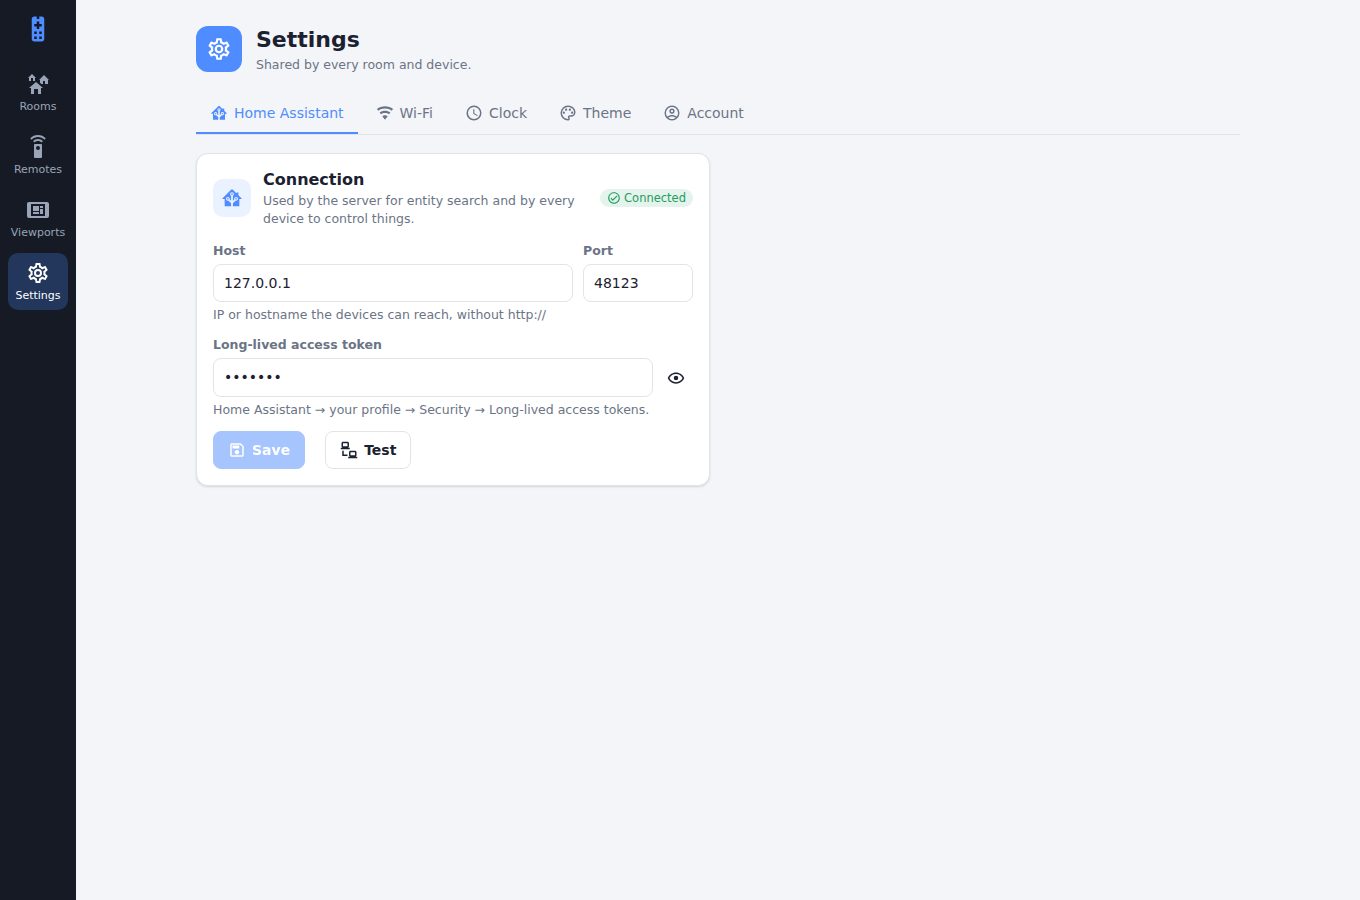
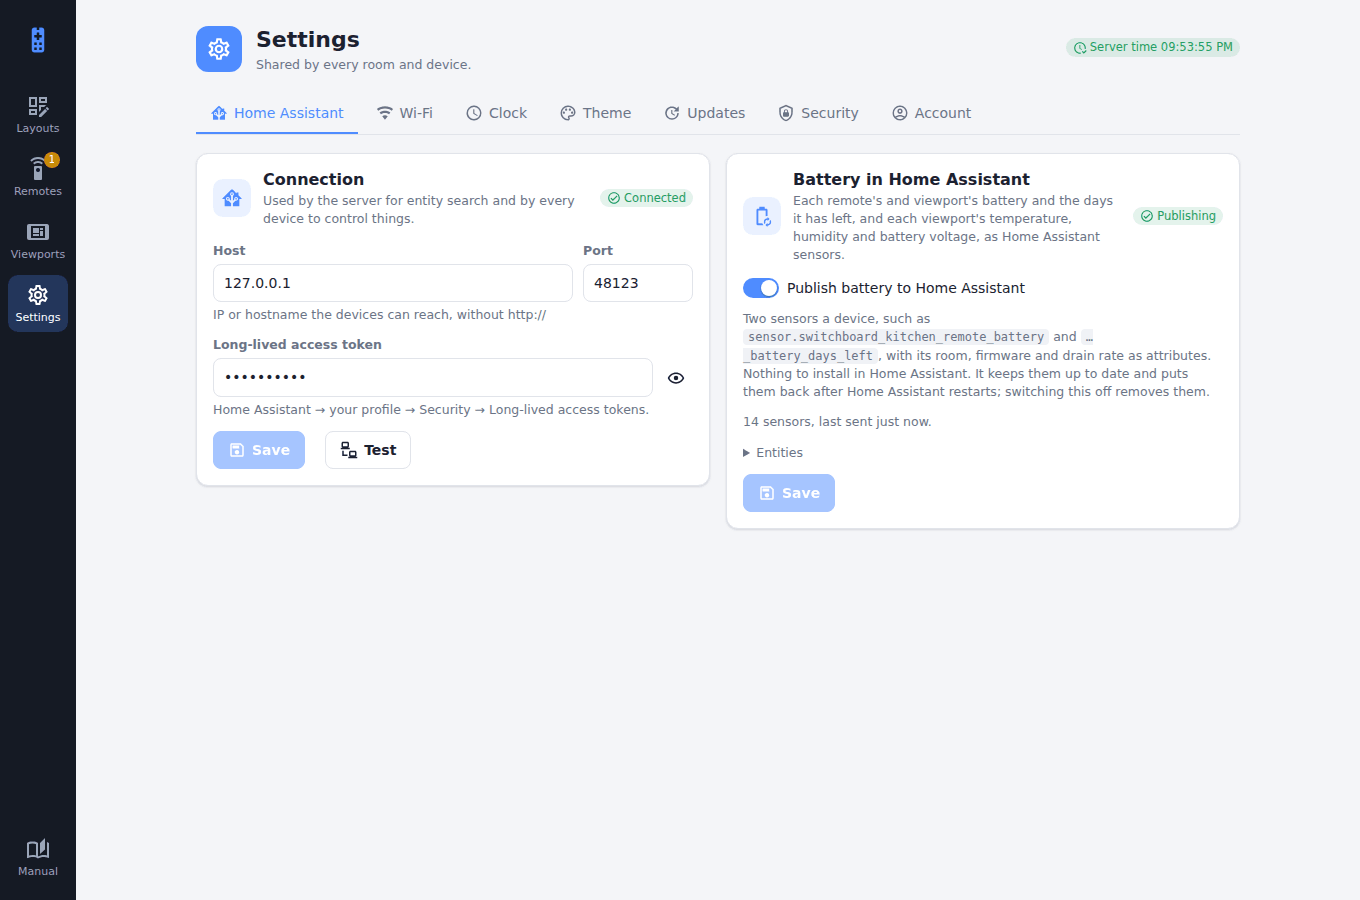
README as a pitch: battery life, live previews, fresh screenshots
Claude-Session: https://claude.ai/code/session_012u7Tsk3WmSPsMgQDKQsdJ4

diff --git a/README.md b/README.md
@@ -1,31 +1,42 @@
 # Switchboard Server
 
-The home server companion for [Switchboard](https://github.com/stumarti/Switchboard), the X4 Pro smart-home remote. Run one instance for your whole household — it stores each room's setup (lighting, blinds, climate, media, TV) and every remote pulls its config from it, instead of you typing it in by hand on each device.
+**One small server for every e-ink screen in your home.** Switchboard Server runs your [Switchboard](https://github.com/stumarti/Switchboard) devices: the X4 Pro remotes you pick up off the wall, and the colour [viewport](https://github.com/stumarti/Switchboard-Viewport) wall displays. You build each one's screens in your browser, with a live preview from Home Assistant, and every device picks them up on its own. It's one Docker container, with nothing to install in Home Assistant.
 
-**[⚡ Flash an X4 Pro remote](https://stumarti.github.io/Switchboard/)**
+<p>
+  <img src="screenshots/viewport-preview.png" width="420" alt="A viewport's Status screen, previewed live from Home Assistant">
+  <img src="screenshots/remote-layout.png" width="300" alt="A room's remote layout">
+</p>
+
+**[⚡ Flash a remote or a viewport](https://stumarti.github.io/Switchboard/)** · **[Read the manual](https://stumarti.github.io/Switchboard/manual/)** · **[Try the demo](#try-it-without-hardware)**
+
+## Batteries that last
+
+The server does the work so the devices barely have to. It talks to Home Assistant, works out every value, colour, icon and sentence, and dithers the album art. The devices just wake, draw and sleep:
+
+- **A remote** (Xteink X4 Pro) runs for **about 30 days** on a charge with light use.
+- **A viewport** (reTerminal E1002) runs for **around 3 months**. If a screen hasn't changed, the server says so, and the panel isn't redrawn at all.
+
+The server learns how fast each battery drains, so you know **how many days each device has left**. It warns you before one runs low, and can publish the batteries to Home Assistant for your own alerts. See [Battery life](https://stumarti.github.io/Switchboard/manual/server/battery-life.html).
+
+<p><img src="screenshots/home.png" width="760" alt="The Home page: every device's battery and days left, Wi-Fi, firmware, and what needs attention"></p>
 
 ## What it does
 
-- **Every UI lives here.** Each room's remote layout (which pages, which Home Assistant entities) and each wall display's viewport layout are built in the admin UI. A device is only ever assigned one — dumb hardware, server control.
-- **Devices pair once**, and you approve each from the admin UI.
-- **It talks to Home Assistant** for the devices, and prepares everything they draw, down to dithered album art.
-- **It keeps an eye on them:** battery (with the days left), Wi-Fi signal, firmware, and anything that needs attention, on the Home page.
-- **Optional extras:** a theme for the remotes' icons and font, and over-the-air firmware updates.
-
-Get this running and set up at least one room *before* you flash a remote: the device pulls its whole setup from here. The firmware is in [Switchboard](https://github.com/stumarti/Switchboard).
-
-## Screenshots
+- **Every screen is built here.** A room's remote has its lights, blinds, music, TV, climate and Quick Access. A wall display gets screens made from twenty section types: weather, energy, the home battery, heating, security, calendar, departures and more. The devices are dumb hardware: change a layout and they follow.
+- **Live previews** of each remote page and each viewport screen, drawn from your Home Assistant as you edit.
+- **Pair once.** Devices find the server by mDNS (`switchboard.local`), and you approve each from the admin UI.
+- **Keep an eye on them:** the Home page shows every device's battery and days left, Wi-Fi signal, firmware and last check-in, and anything that needs attention.
+- **Over-the-air updates** from GitHub releases, one device at a time or all at once, checked and rolled back if they fail.
+- **Make it yours** with a theme for the icons and font.
 
 <table>
 <tr>
-  <td><img src="screenshots/room.png" width="360" alt="Editing a room"><br><sub>Layouts — a room's remote layout, entities searched from Home Assistant</sub></td>
-  <td><img src="screenshots/remote.png" width="360" alt="A remote's carousel"><br><sub>Remotes — drag-to-order carousel and Quick Access hub</sub></td>
-</tr>
-<tr>
-  <td><img src="screenshots/viewport.png" width="360" alt="A viewport's tiles"><br><sub>Layouts — a viewport layout, with a live preview</sub></td>
-  <td><img src="screenshots/settings.png" width="360" alt="Settings"><br><sub>Settings — Home Assistant, Wi-Fi, clock, theme</sub></td>
+  <td><img src="screenshots/viewport-layout.png" width="380" alt="A viewport layout"><br><sub>A viewport layout: the carousel, quiet hours and its screens</sub></td>
+  <td><img src="screenshots/settings.png" width="380" alt="Settings"><br><sub>Settings: Home Assistant, Wi-Fi, clock, theme, updates</sub></td>
 </tr>
 </table>
+
+Get this running and set up at least one room or viewport layout *before* you flash a device: each one pulls its whole setup from here.
 
 ## Quick start
 
@@ -53,8 +64,8 @@ Then:
 1. Open `http://<your-server-ip>:45678` and set an admin password.
 2. **Settings → Home Assistant:** enter its address and a long-lived access token, save, then press **Test**.
 3. **Settings → Wi-Fi:** the network remotes should join.
-4. **Layouts:** create a room and fill in its Home Assistant entities.
-5. [Flash a remote](https://stumarti.github.io/Switchboard/) and approve it on the **Remotes** page, choosing its room.
+4. **Layouts:** create a room (for a remote) or a viewport layout, and fill in its Home Assistant entities. **Start from… → Kitchen dashboard** gives you a whole kitchen dashboard to adapt.
+5. [Flash a remote or a viewport](https://stumarti.github.io/Switchboard/) and approve it on the **Remotes** page, choosing its room or layout.
 
 This exact file is `docker-compose.yml` in this repo — grab it directly instead of retyping it.
 
@@ -73,7 +84,7 @@ Then open `http://localhost:45680` (password `demo`): a pretend Home Assistant w
 
 ## Manual
 
-**[The Switchboard manual](https://stumarti.github.io/Switchboard/manual/)** covers the server and the remote, with screenshots of every page. It lives beside the web flasher, in the firmware repository's GitHub Pages.
+**[The Switchboard manual](https://stumarti.github.io/Switchboard/manual/)** covers the server, the remote and the viewport, with screenshots of every page. It lives beside the web flasher, in the firmware repository's GitHub Pages.
 
 - The admin UI: [Home](https://stumarti.github.io/Switchboard/manual/server/home.html), [remote layouts](https://stumarti.github.io/Switchboard/manual/server/remote-layouts.html), [remotes](https://stumarti.github.io/Switchboard/manual/server/remotes.html), [viewports](https://stumarti.github.io/Switchboard/manual/server/viewports.html), [settings](https://stumarti.github.io/Switchboard/manual/server/settings.html)
 - [Theme](https://stumarti.github.io/Switchboard/manual/server/theme.html) · [Remote updates](https://stumarti.github.io/Switchboard/manual/server/remote-updates.html) · [Battery life](https://stumarti.github.io/Switchboard/manual/server/battery-life.html) · [Pairing & auth](https://stumarti.github.io/Switchboard/manual/server/pairing-and-auth.html)
